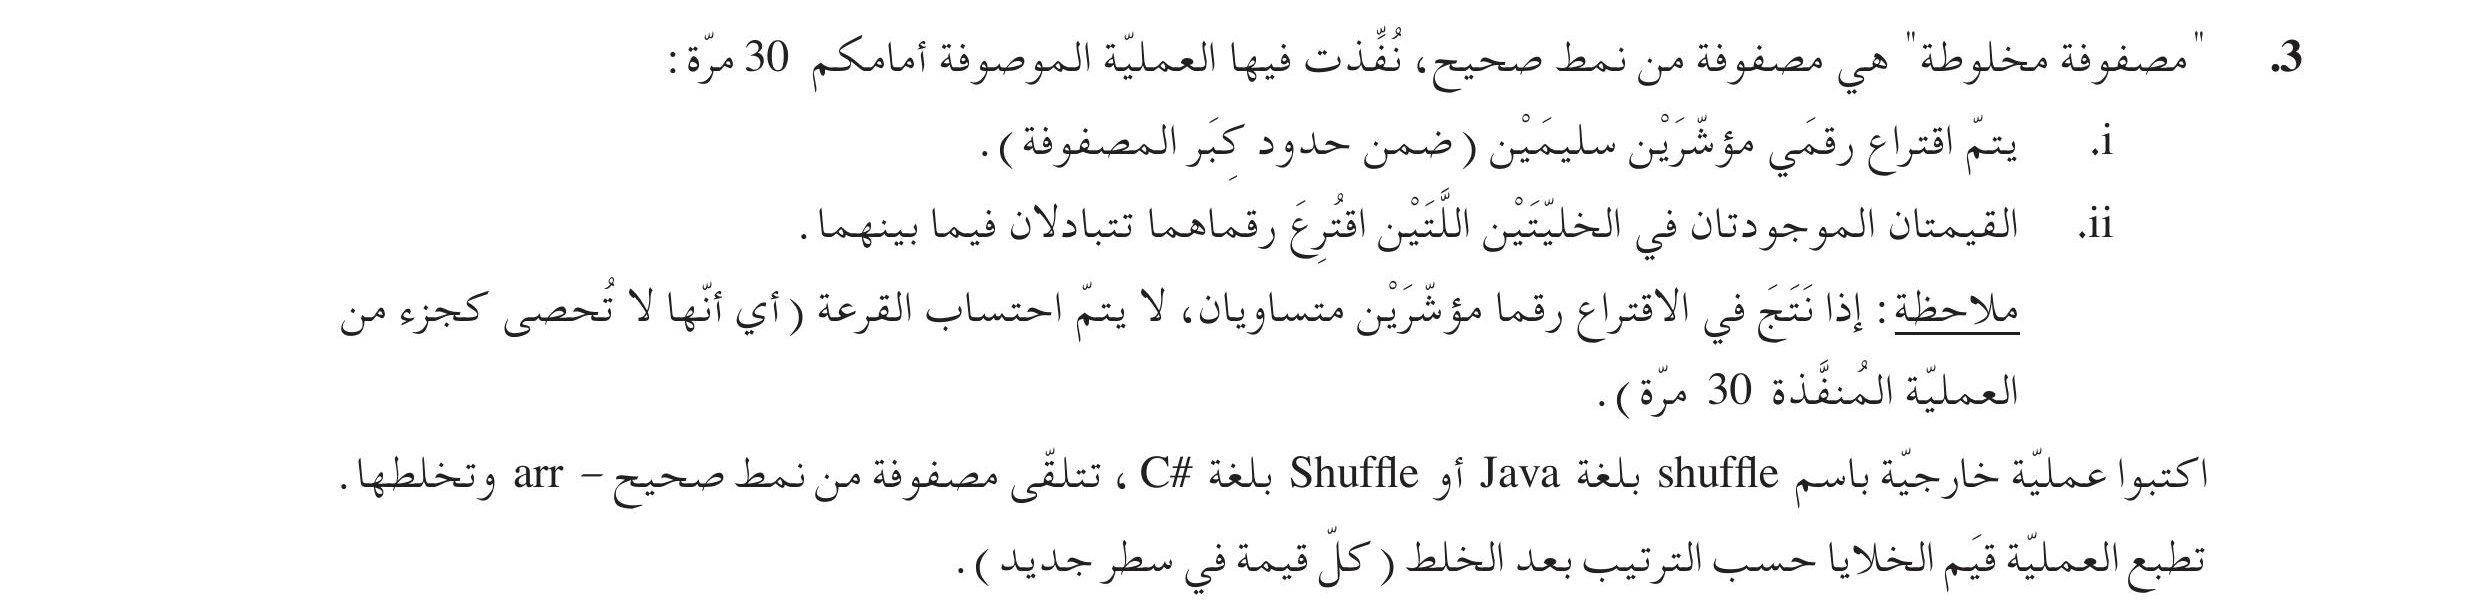
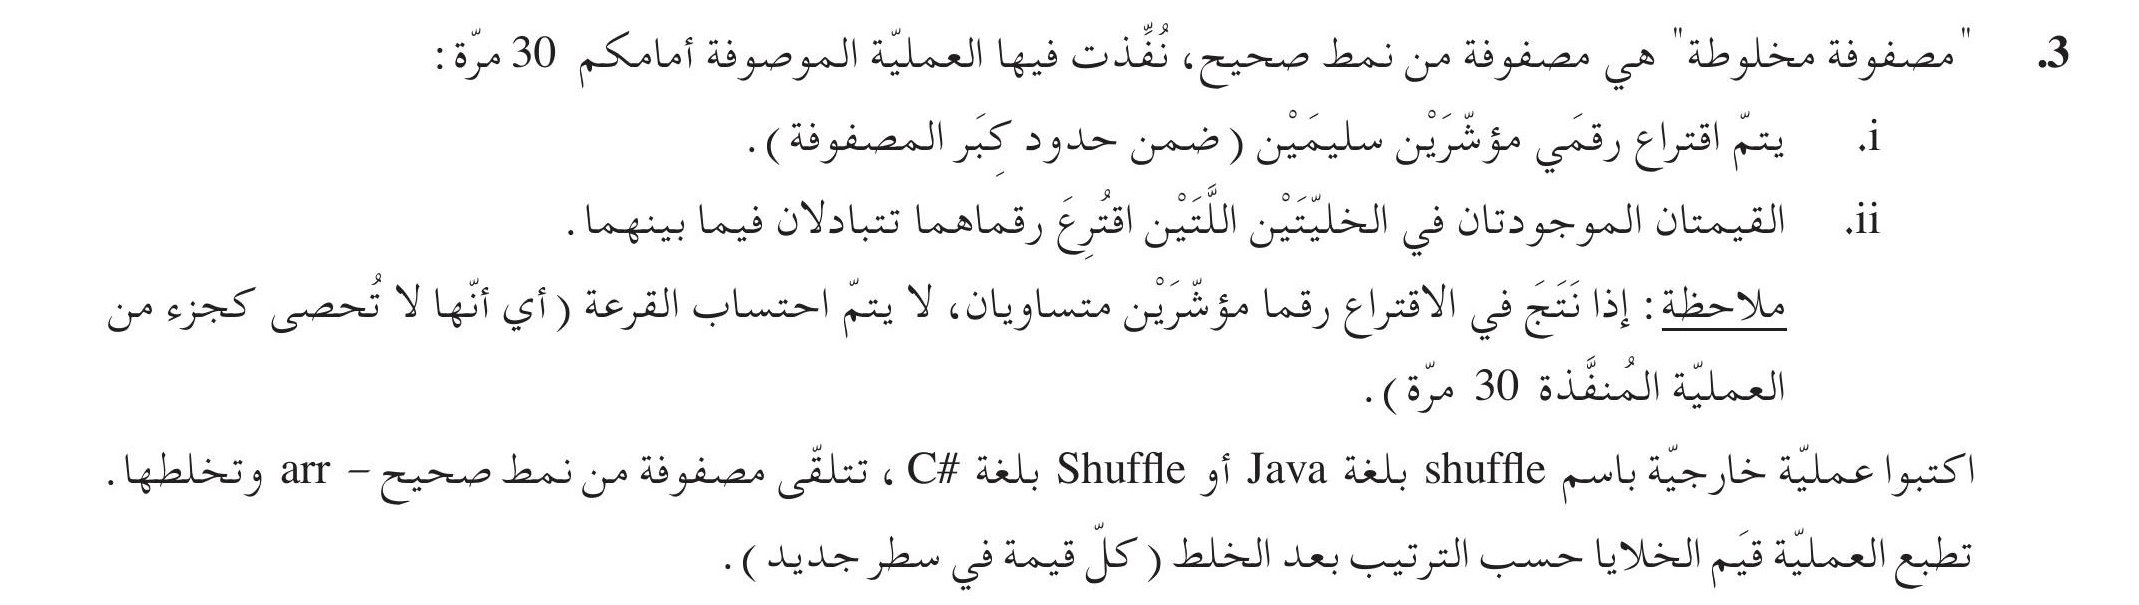
Add sprint vacation homework

diff --git a/src/exs/basics/hw19-arraysBagut_vacationHw.tex b/src/exs/basics/hw19-arraysBagut_vacationHw.tex
@@ -1,0 +1,48 @@
+\documentclass[14pt]{extarticle}
+\input{../../../scripts/tex_preamble.tex}
+
+\ifwithsols
+\title{حل وظيفة عطلة الربيع \\ أسئلة بجروت عن المصفوفات}
+\else
+\title{وظيفة عطلة الربيع \\ أسئلة بجروت عن المصفوفات}
+\fi
+
+\begin{document}
+
+\maketitle
+\thispagestyle{fancy}
+
+
+\subsection*{تعليمات}
+{\large
+\begin{itemize}[itemsep=1em]
+    \item يجب حل جميع الأسئلة في هذا الملف.
+    \item اكتب عنوان السؤال بشكل واضح (رقم السؤال، والسنة ورقم النموذج.)
+    \item يجب كتابة الحلول يدويًّا وليس على الحاسوب، بخطّ واضح ومقروء.
+    \item تُسّلَّم الحلول ورقيًّا يوم \textenglish{\textbf{الاثنين 20.5.2026}}
+    \item \textbf{الحل النهائي المكتوب في الورقة التي تسلمها يجب أن يكون حلك بنفسك}، لا مانع قبل ذلك من استخدام مصادر خارجية يشمل زملاء الدراسة والذكاء الاصطناعي. لكن لا تنسخ منهم، افهم ثم اكتب الحل كاملًا بنفسك.
+    \item الحل المنسوخ عن طالب آخر أو عن الذكاء الاصطناعي سيحصل على علامة 0.
+    \item حل هذه الأسئلة وتسليمها يشكل $20\%$ من العلامة النهائية للفصل الثالث.
+\end{itemize}
+}
+
+\vspace{1cm}
+\begin{flushleft}
+أرجو لكم عملا ممتعًا وعطلة ناجعة.
+
+الأستاذ محمود اغبارية.
+\end{flushleft}
+
+\input{../../../bagrut_questions/basics/arrays_2020_899381a_1.tex}
+\input{../../../bagrut_questions/basics/arrays_2021_899381a_1.tex}
+\input{../../../bagrut_questions/basics/arrays_2022_899381_1.tex}
+\input{../../../bagrut_questions/basics/arrays_2023_899381_1.tex}
+\input{../../../bagrut_questions/basics/arrays_2022_899381_2.tex}
+\input{../../../bagrut_questions/basics/arrays_2023_899381_2.tex}
+\input{../../../bagrut_questions/basics/arrays_2024_899371_2.tex}
+\input{../../../bagrut_questions/basics/arrays_2025_899371_2.tex}
+\input{../../../bagrut_questions/basics/arrays_2020_899381b_3.tex}
+\input{../../../bagrut_questions/basics/arrays_2024_899371_3.tex}
+\input{../../../bagrut_questions/basics/arrays_2022_899381_9.tex}
+
+\end{document}

diff --git a/bagrut_questions/basics/arrays_2025_899371_2.tex b/bagrut_questions/basics/arrays_2025_899371_2.tex
@@ -9,7 +9,9 @@
 \noindent
 \makebox[\textwidth][c]{\includegraphics[width=0.9\paperwidth,keepaspectratio]{ ../../../bagrut_questions/basics/arrays_2025_899371_2.jpg }%
 }%
-
+\begin{boxHint}
+    استعمل مصفوفة مساعدة، انسخ عليها أولا الأعداد الموجبة، ثم الأعداد السالبة، ثم انسخها إلى المصفوفة الأصلية.
+\end{boxHint}
 
 \ifwithsols
 \begin{boxSolution}[سؤال 2 امتحان 899371 سنة 2025]
@@ -24,12 +26,13 @@
 \end{boxSolution}
 \clearpage
 \begin{boxSolution}[الطريقة الأولى: استخدام مصفوفة مساعدة]
-    عندنا ثلاث حلقات:
+{\small
 \begin{itemize}
     \item في الحلقة الأولى، ننسخ جميع الأعداد الموجبة إلى مصفوفة مساعدة.
     \item في الحلقة الثانية، ننسخ جميع الأعداد السالبة إلى نفس المصفوفة المساعدة، بحيث تكون بعد الأعداد الموجبة.
     \item في الحلقة الثالثة، ننسخ العناصر من المصفوفة المساعدة إلى المصفوفة الأصلية.
 \end{itemize}
+}
 \begin{boxCode}
 \begin{english}
 \begin{minted}{csharp}

diff --git a/bagrut_questions/basics/arrays_2023_899381_2.tex b/bagrut_questions/basics/arrays_2023_899381_2.tex
@@ -10,6 +10,12 @@
 \makebox[\textwidth][c]{\includegraphics[width=0.9\paperwidth,keepaspectratio]{ ../../../bagrut_questions/basics/arrays_2023_899381_2.png }%
 }%
 
+\begin{boxHint}
+يمكنك معرفة الفرق الثابت بين الأعداد في المصفوفة من خلال مقارنة الفرق بين أول عنصرين مع الفرق بين العنصرين الثاني والثالث. 
+(الفرق الثابت هو الفرق الأصغر بينهما، أو إذا كانا متساويين فهما مساويان للفرق الثابت) \\
+بعد معرفة الفرق الثابت، يمكنك المرور على المصفوفة لإيجاد العنصرين اللذين الفرقُ بينهما أكبر من الفرق الثابت، وبالتالي حساب الحد الناقص.
+\end{boxHint}
+
 
 \ifwithsols
 \begin{boxSolution}[سؤال 2 امتحان 899381 سنة 2023]

diff --git a/bagrut_questions/basics/arrays_2024_899371_3.tex b/bagrut_questions/basics/arrays_2024_899371_3.tex
@@ -7,9 +7,16 @@
 \addcontentsline{toc}{subsection}{سؤال 3 امتحان 899371 سنة 2024}
 
 \noindent
-\makebox[\textwidth][c]{\includegraphics[width=0.9\paperwidth,keepaspectratio]{ ../../../bagrut_questions/basics/arrays_2024_899371_3.jpg }%
+\makebox[\textwidth][c]{\includegraphics[width=\paperwidth,keepaspectratio]{ ../../../bagrut_questions/basics/arrays_2024_899371_3.jpg }%
 }%
 
+\begin{boxHint}
+    \begin{itemize}
+        \item ستحتاج إلى استخدام \texttt{Random} لتوليد أعداد عشوائية.
+        \item استخدم حلقة \texttt{while}.
+        \item تقديم العدّاد يحصل فقط عند نجاح عملية التبديل (أي عندما لا يكونا العنصرين المختارين نفسهما).
+    \end{itemize}
+\end{boxHint}
 
 \ifwithsols
 \begin{boxSolution}[سؤال 3 امتحان 899371 سنة 2024]

diff --git a/bagrut_questions/basics/arrays_2020_899381b_3.tex b/bagrut_questions/basics/arrays_2020_899381b_3.tex
@@ -13,11 +13,6 @@
 
 \ifwithsols
 \begin{boxSolution}[سؤال 3 امتحان 899381b سنة 2020]
-\begin{enumerate}[itemsep=1.5em, label=\alph*.]
-    \item عملية خارجية تستقبل مصفوفة أحادية الأبعاد وعددا يشير إلى مكان حد في المصفوفة، وتفحص هذه العملية إذا كان هذا الحد حد تكافؤ.
-    \item عملية خارجية تستقبل مصفوفة أحادية الأبعاد وتفحص إذا كانت المصفوفة مصفوفة تكافؤ (تحتوي على حد تكافؤ واحد على الأقل).
-\end{enumerate}
-
 \begin{boxCode}
 \begin{english}
 \begin{minted}{csharp}

diff --git a/bagrut_questions/basics/arrays_2022_899381_9.tex b/bagrut_questions/basics/arrays_2022_899381_9.tex
@@ -10,6 +10,9 @@
 \makebox[\textwidth][c]{\includegraphics[width=0.9\paperwidth,keepaspectratio]{ ../../../bagrut_questions/basics/arrays_2022_899381_9.jpg }%
 }%
 
+\begin{boxHint}
+    ستحتاج إلى حلقة \textenglish{for} تشبه الحلقة التي استخدمناها في سؤال \textenglish{Palindrome}، لكن بدلاً من مقارنة العناصر المتقابلة، ستقوم بجمعها ثم تقارن...
+\end{boxHint}
 
 \ifwithsols
 \begin{boxSolution}[سؤال 9 امتحان 899381 سنة 2022]

diff --git a/bagrut_questions/basics/arrays_2022_899381_2.tex b/bagrut_questions/basics/arrays_2022_899381_2.tex
@@ -7,7 +7,7 @@
 \addcontentsline{toc}{subsection}{سؤال 2 امتحان 899381 سنة 2022}
 
 \noindent
-\makebox[\textwidth][c]{\includegraphics[width=0.9\paperwidth,keepaspectratio]{ ../../../bagrut_questions/basics/arrays_2022_899381_2.png }%
+\makebox[\textwidth][c]{\includegraphics[width=0.8\paperwidth,keepaspectratio]{ ../../../bagrut_questions/basics/arrays_2022_899381_2.png }%
 }%
 
 
